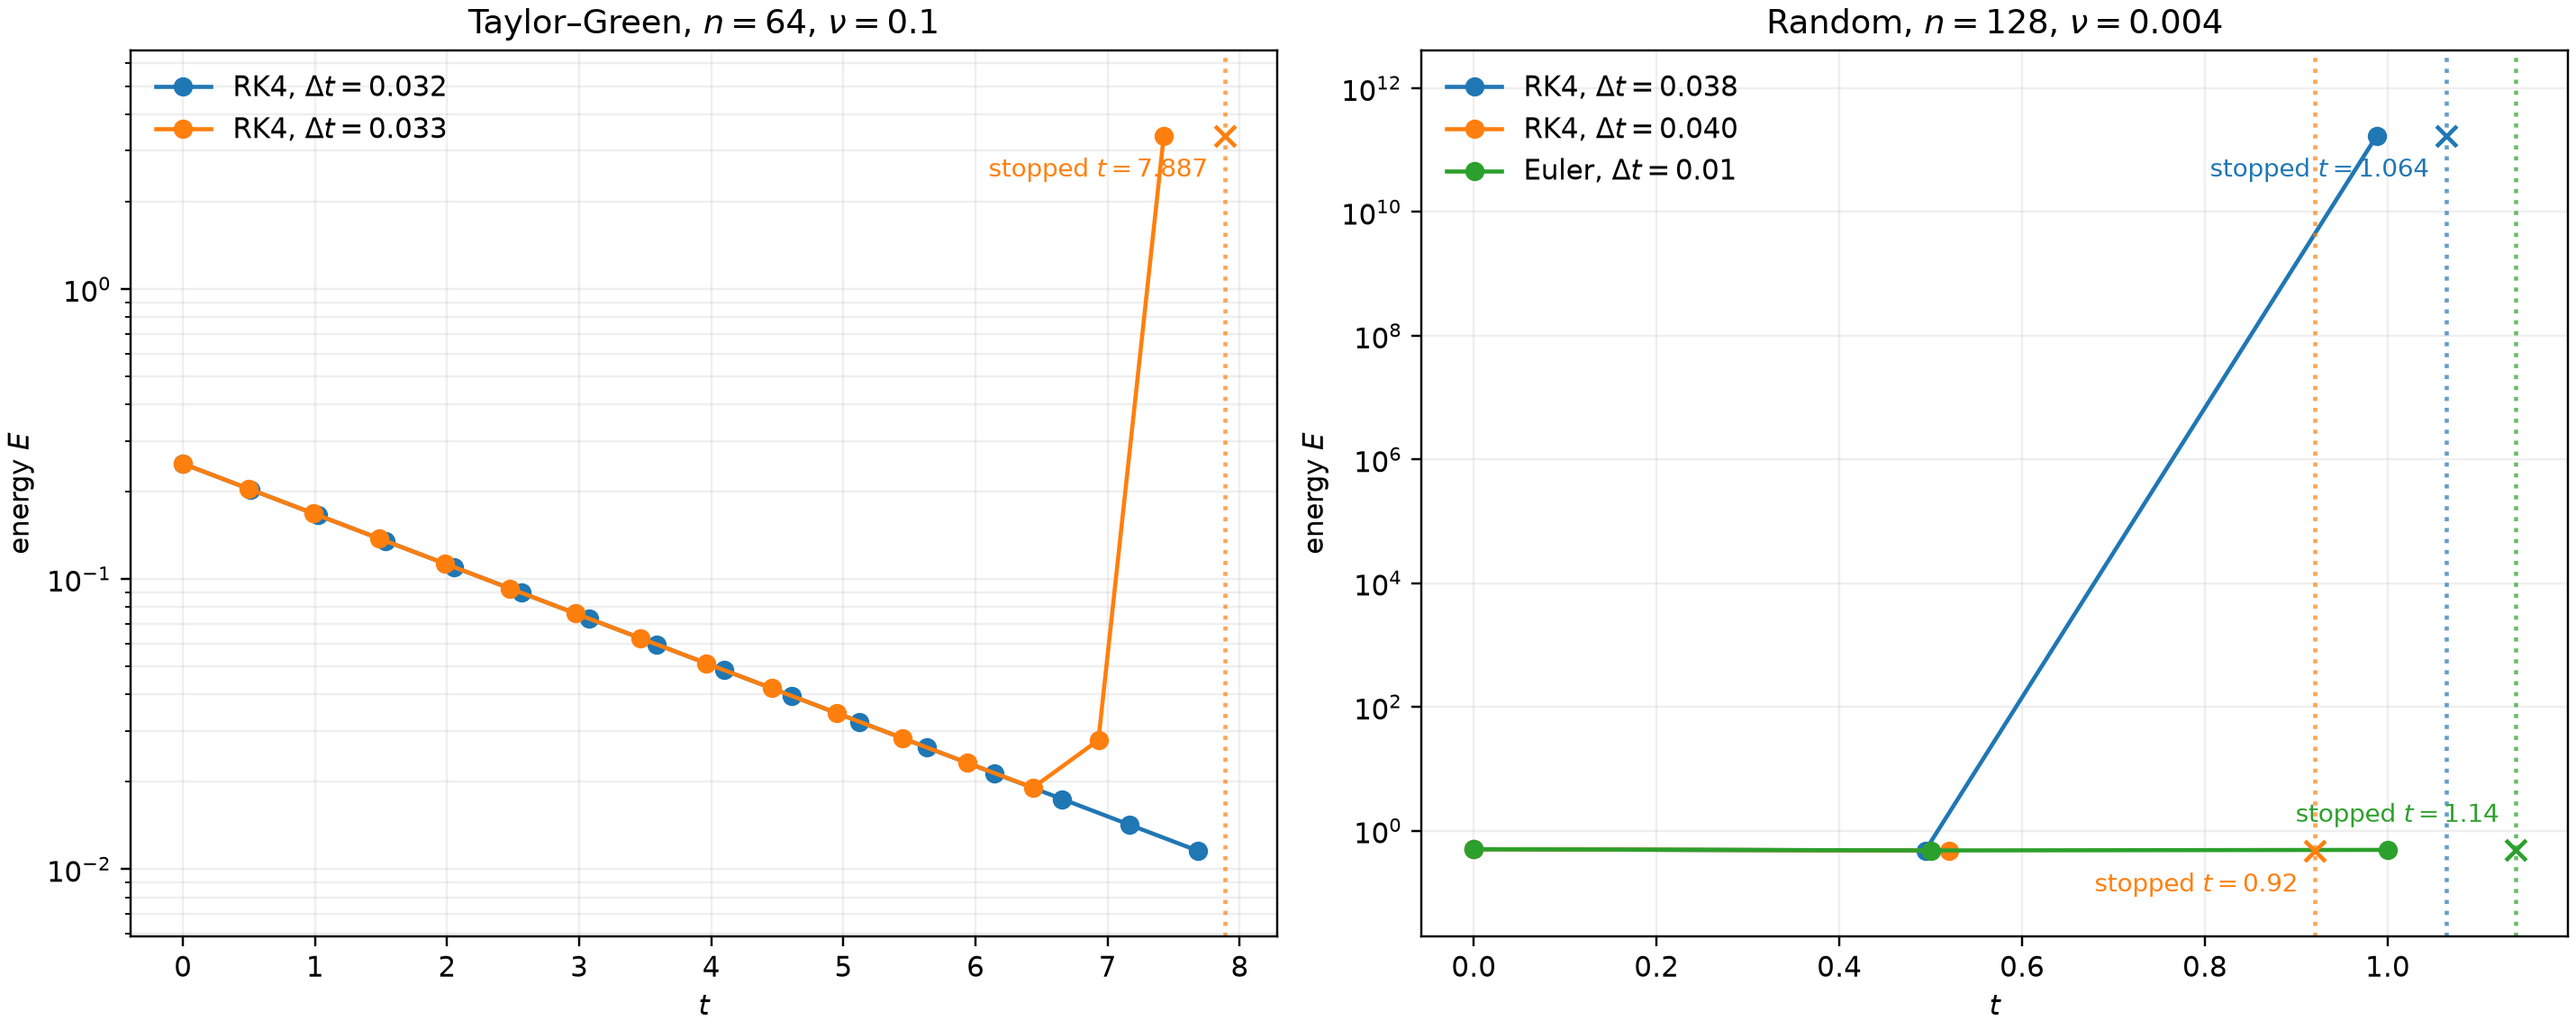
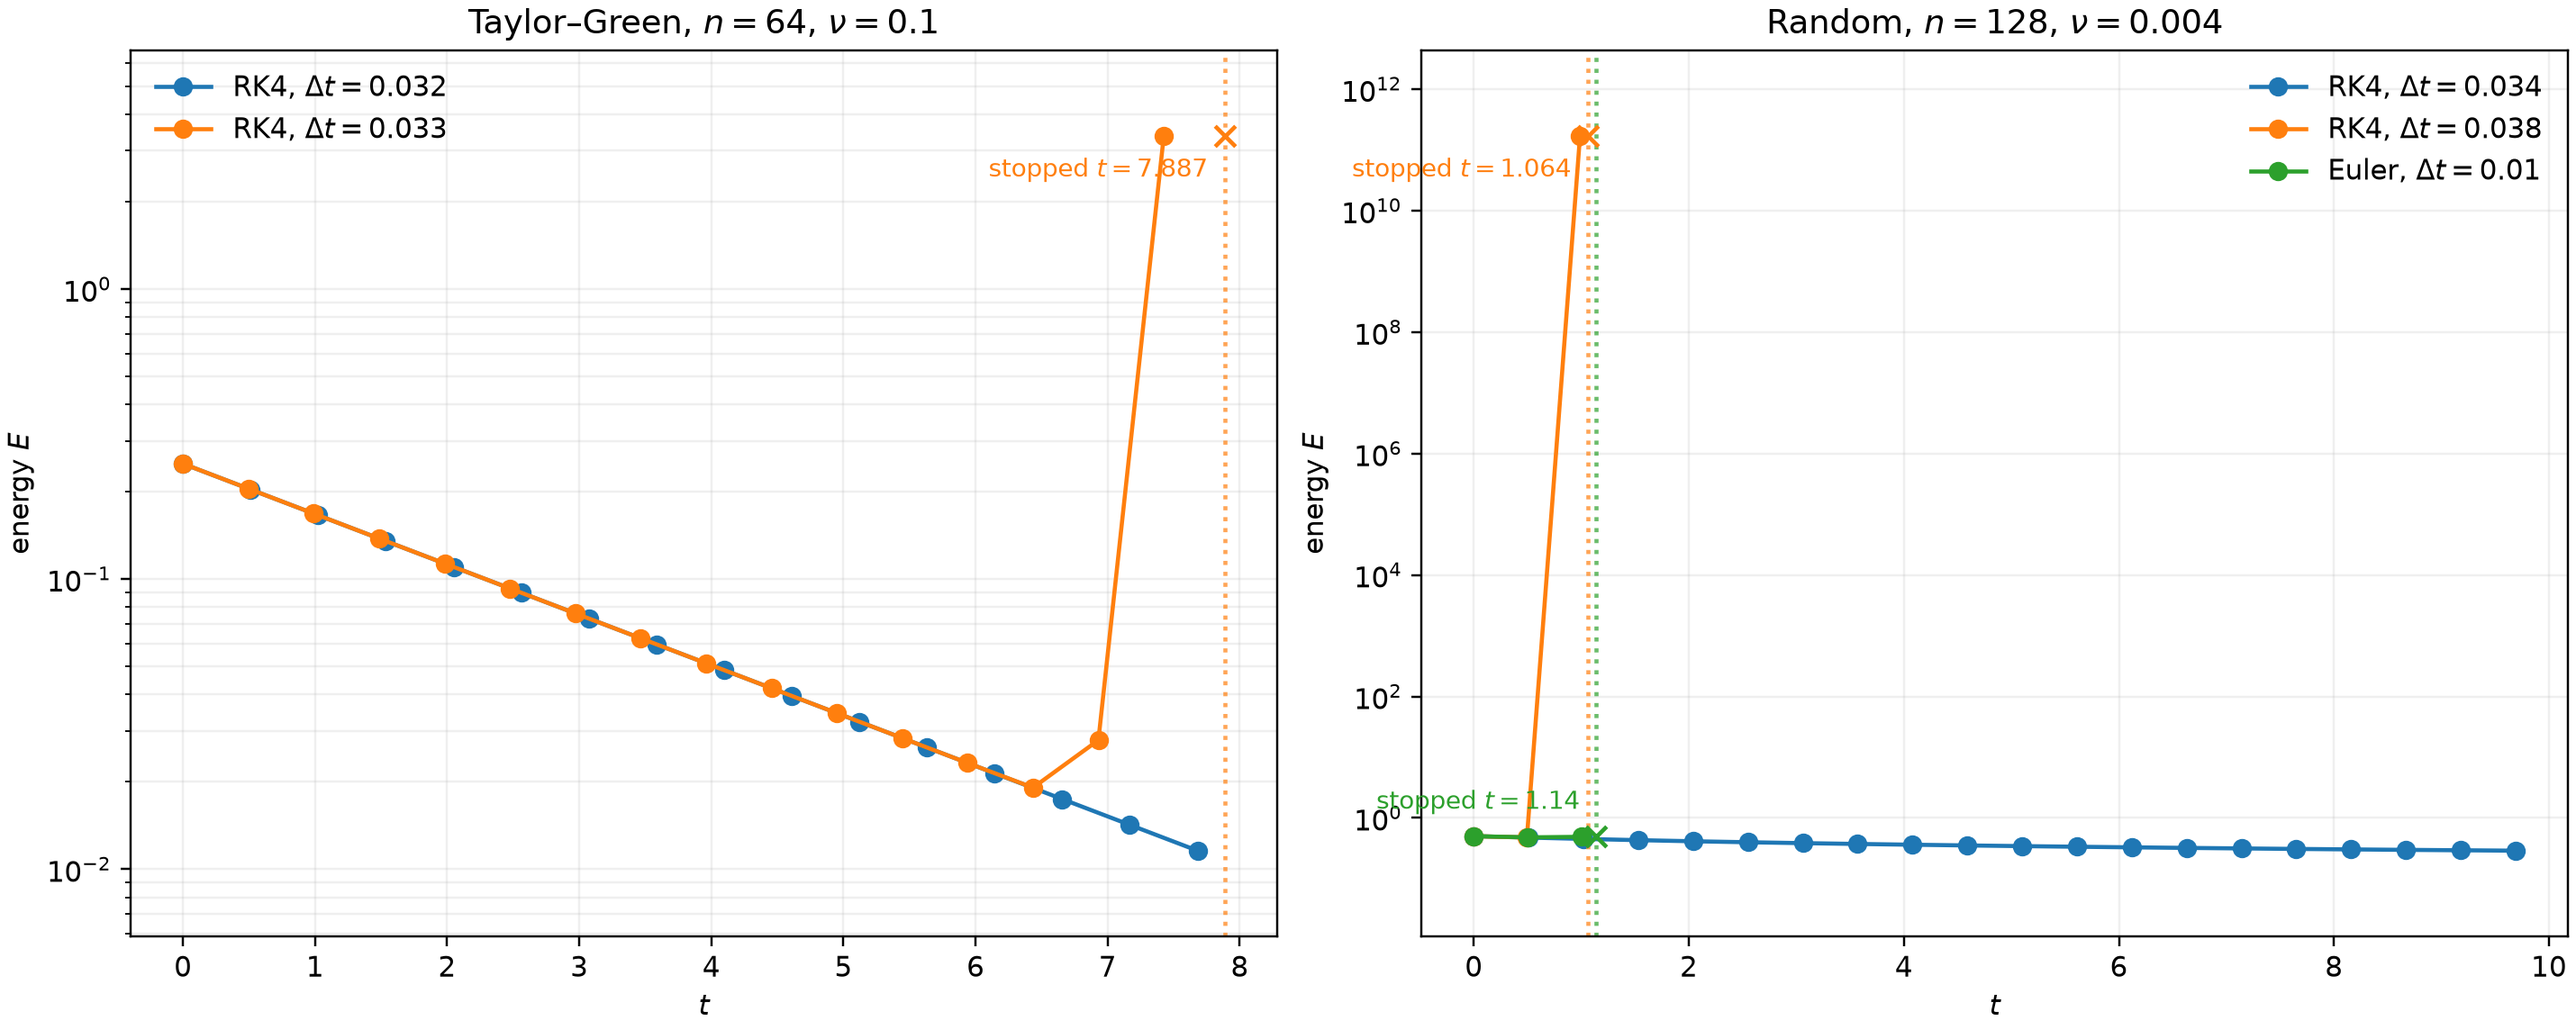
Search for stable random-flow step

diff --git a/week4/scripts/blowup.py b/week4/scripts/blowup.py
@@ -14,6 +14,16 @@ SCAN = ROOT / "artifacts" / "scan"
 initial = json.loads((SCAN / "random-initial.json").read_text())
 largest_speed = np.hypot(initial["u"], initial["v"]).max()
 print(f"largest speed of random initial field: {largest_speed:.17e}")
+stable_dt = (SCAN / "selected-random-rk4.txt").read_text().strip()
+
+
+def diagnostics(name):
+    return np.genfromtxt(SCAN / f"{name}.tsv", names=True, delimiter="\t", ndmin=1)
+
+
+assert np.all(np.isfinite(diagnostics(f"random-rk4-{stable_dt}")["E"]))
+assert not np.isfinite(diagnostics("random-rk4-0.038")["E"][-1])
+assert not np.isfinite(diagnostics("random-euler-0.01")["E"][-1])
 
 cases = {
     "Taylor–Green, $n=64$, $\\nu=0.1$": [
@@ -21,8 +31,8 @@ cases = {
         ("taylor-rk4-0.033", "RK4, $\\Delta t=0.033$"),
     ],
     "Random, $n=128$, $\\nu=0.004$": [
+        (f"random-rk4-{stable_dt}", rf"RK4, $\Delta t={stable_dt}$"),
         ("random-rk4-0.038", "RK4, $\\Delta t=0.038$"),
-        ("random-rk4-0.040", "RK4, $\\Delta t=0.040$"),
         ("random-euler-0.01", "Euler, $\\Delta t=0.01$"),
     ],
 }
@@ -30,7 +40,7 @@ cases = {
 fig, axes = plt.subplots(1, 2, figsize=(13, 5.2), constrained_layout=True)
 for ax, (title, runs) in zip(axes, cases.items()):
     for name, label in runs:
-        data = np.genfromtxt(SCAN / f"{name}.tsv", names=True, delimiter="\t", ndmin=1)
+        data = diagnostics(name)
         finite = np.isfinite(data["E"]) & (data["E"] > 0)
         line = ax.semilogy(data["t"][finite], data["E"][finite], marker="o", label=label)[0]
         if not np.isfinite(data["E"][-1]):
